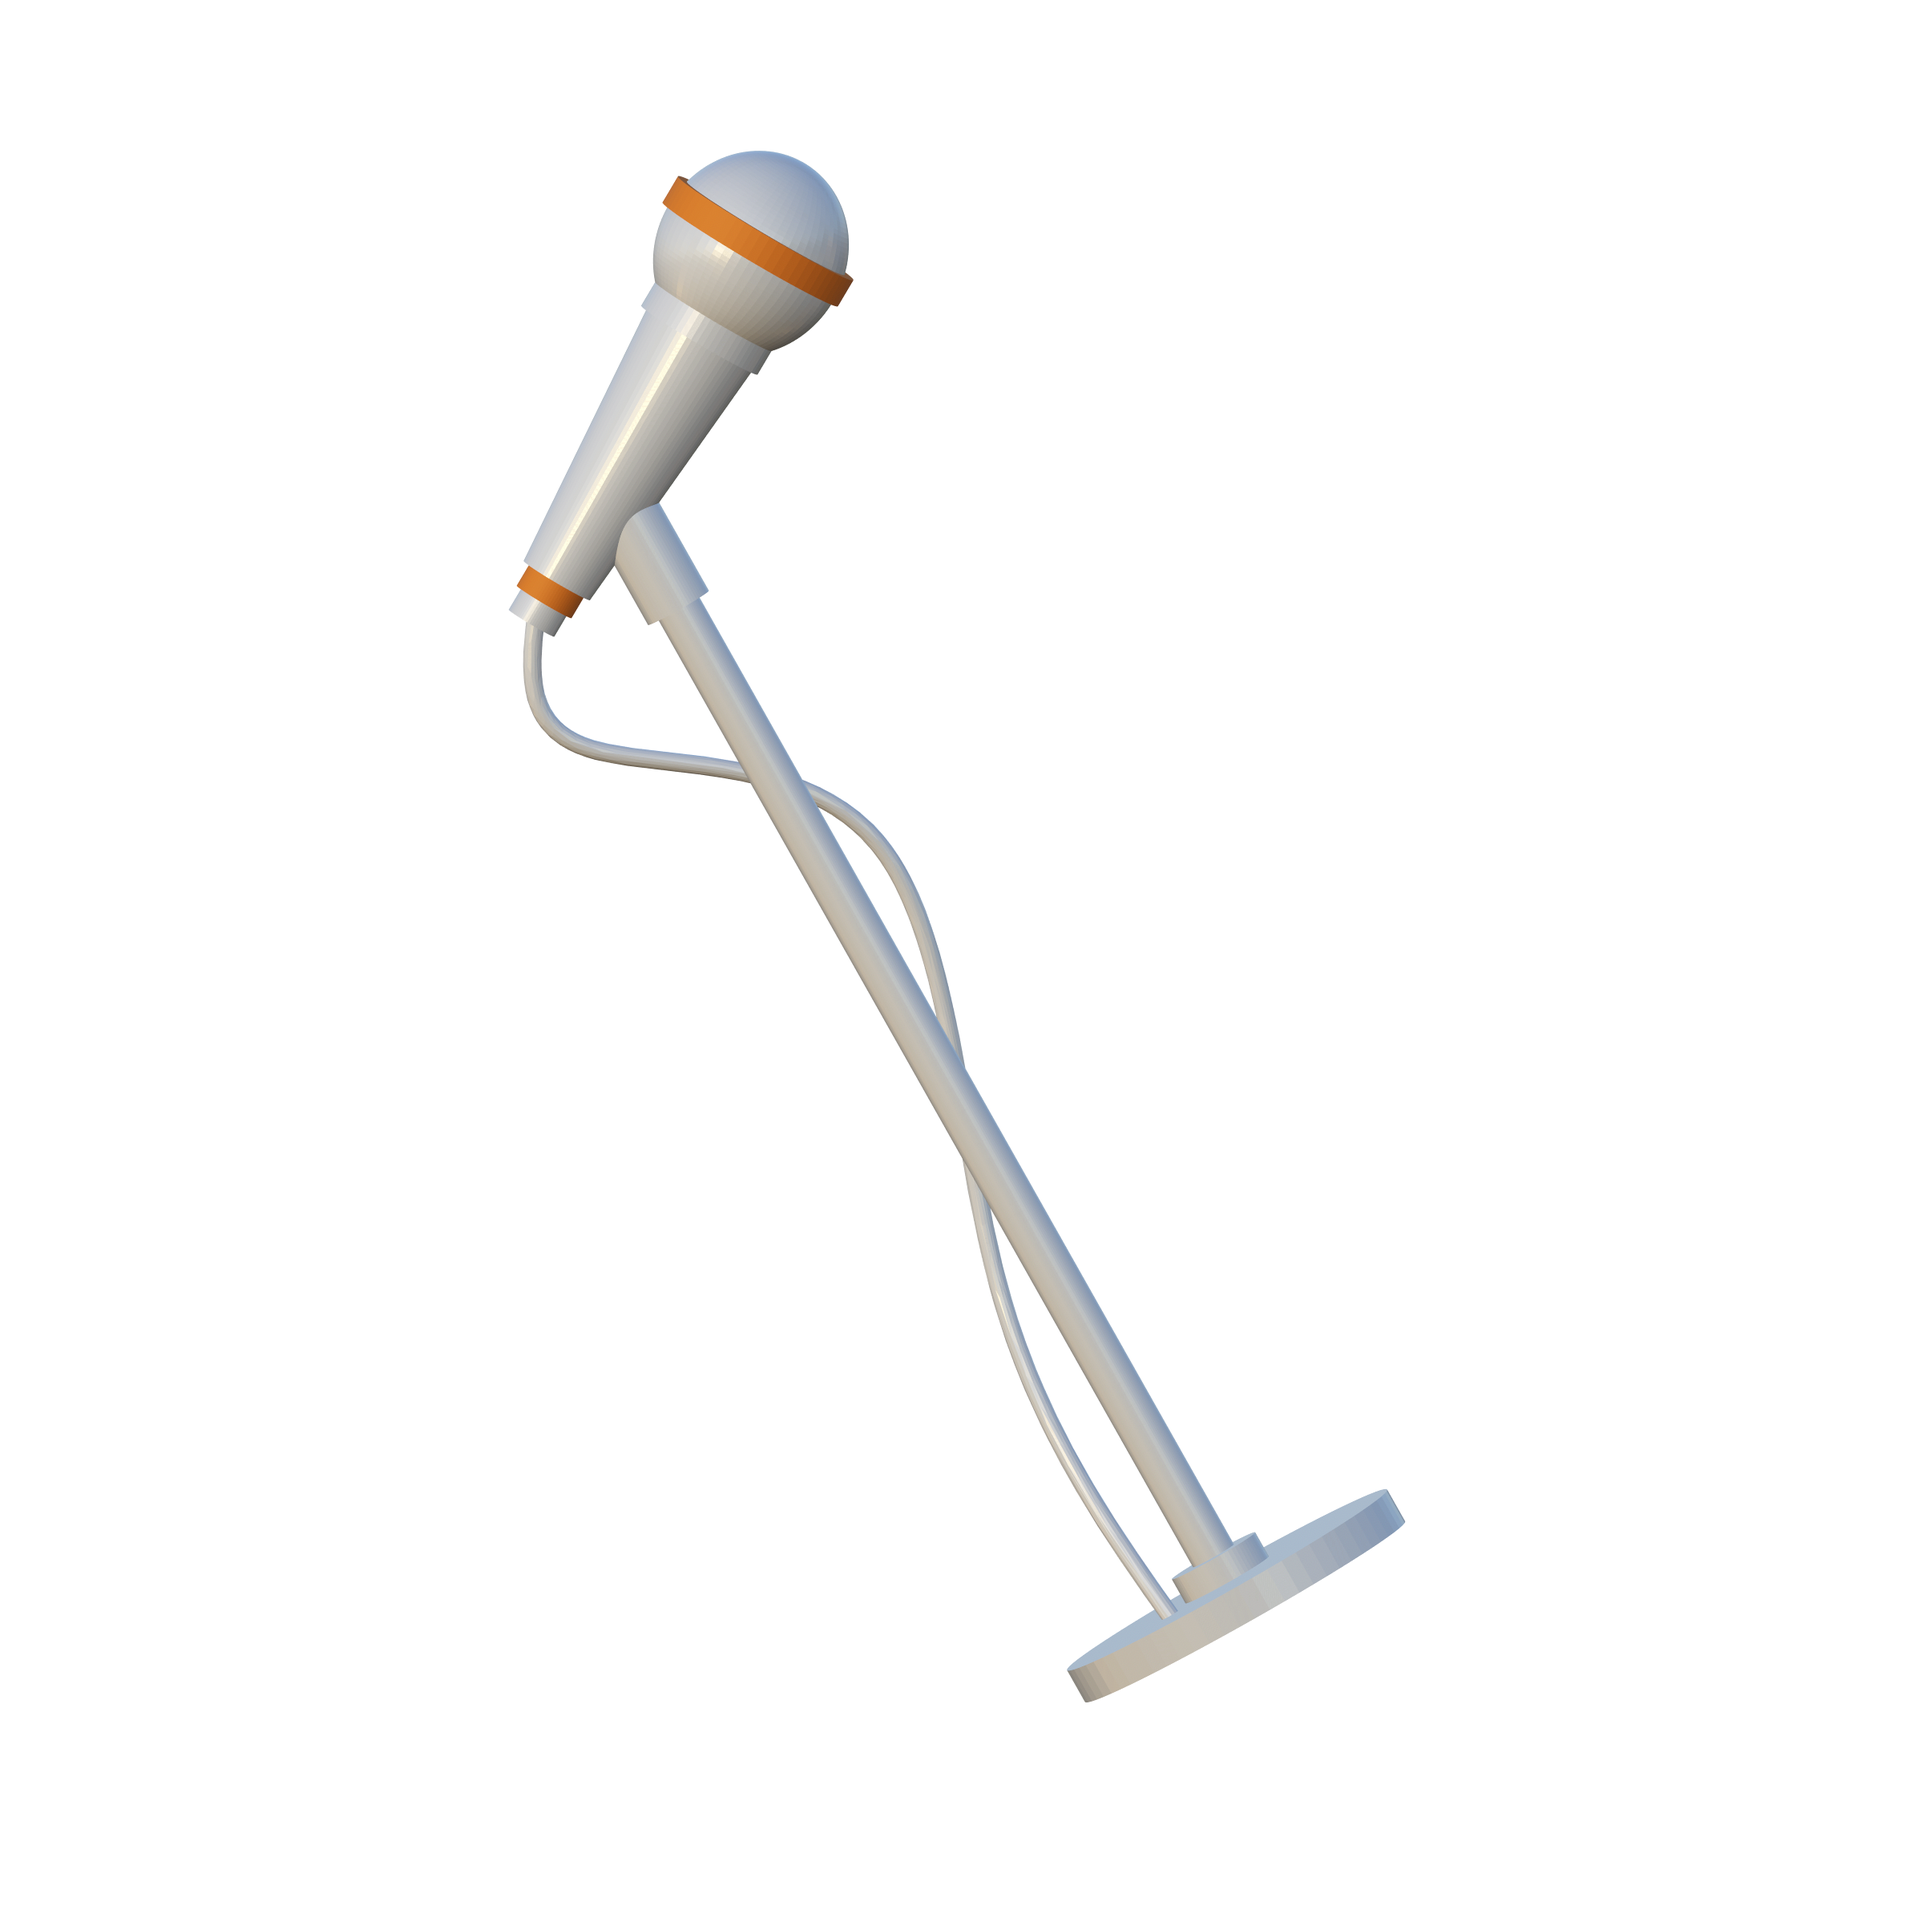
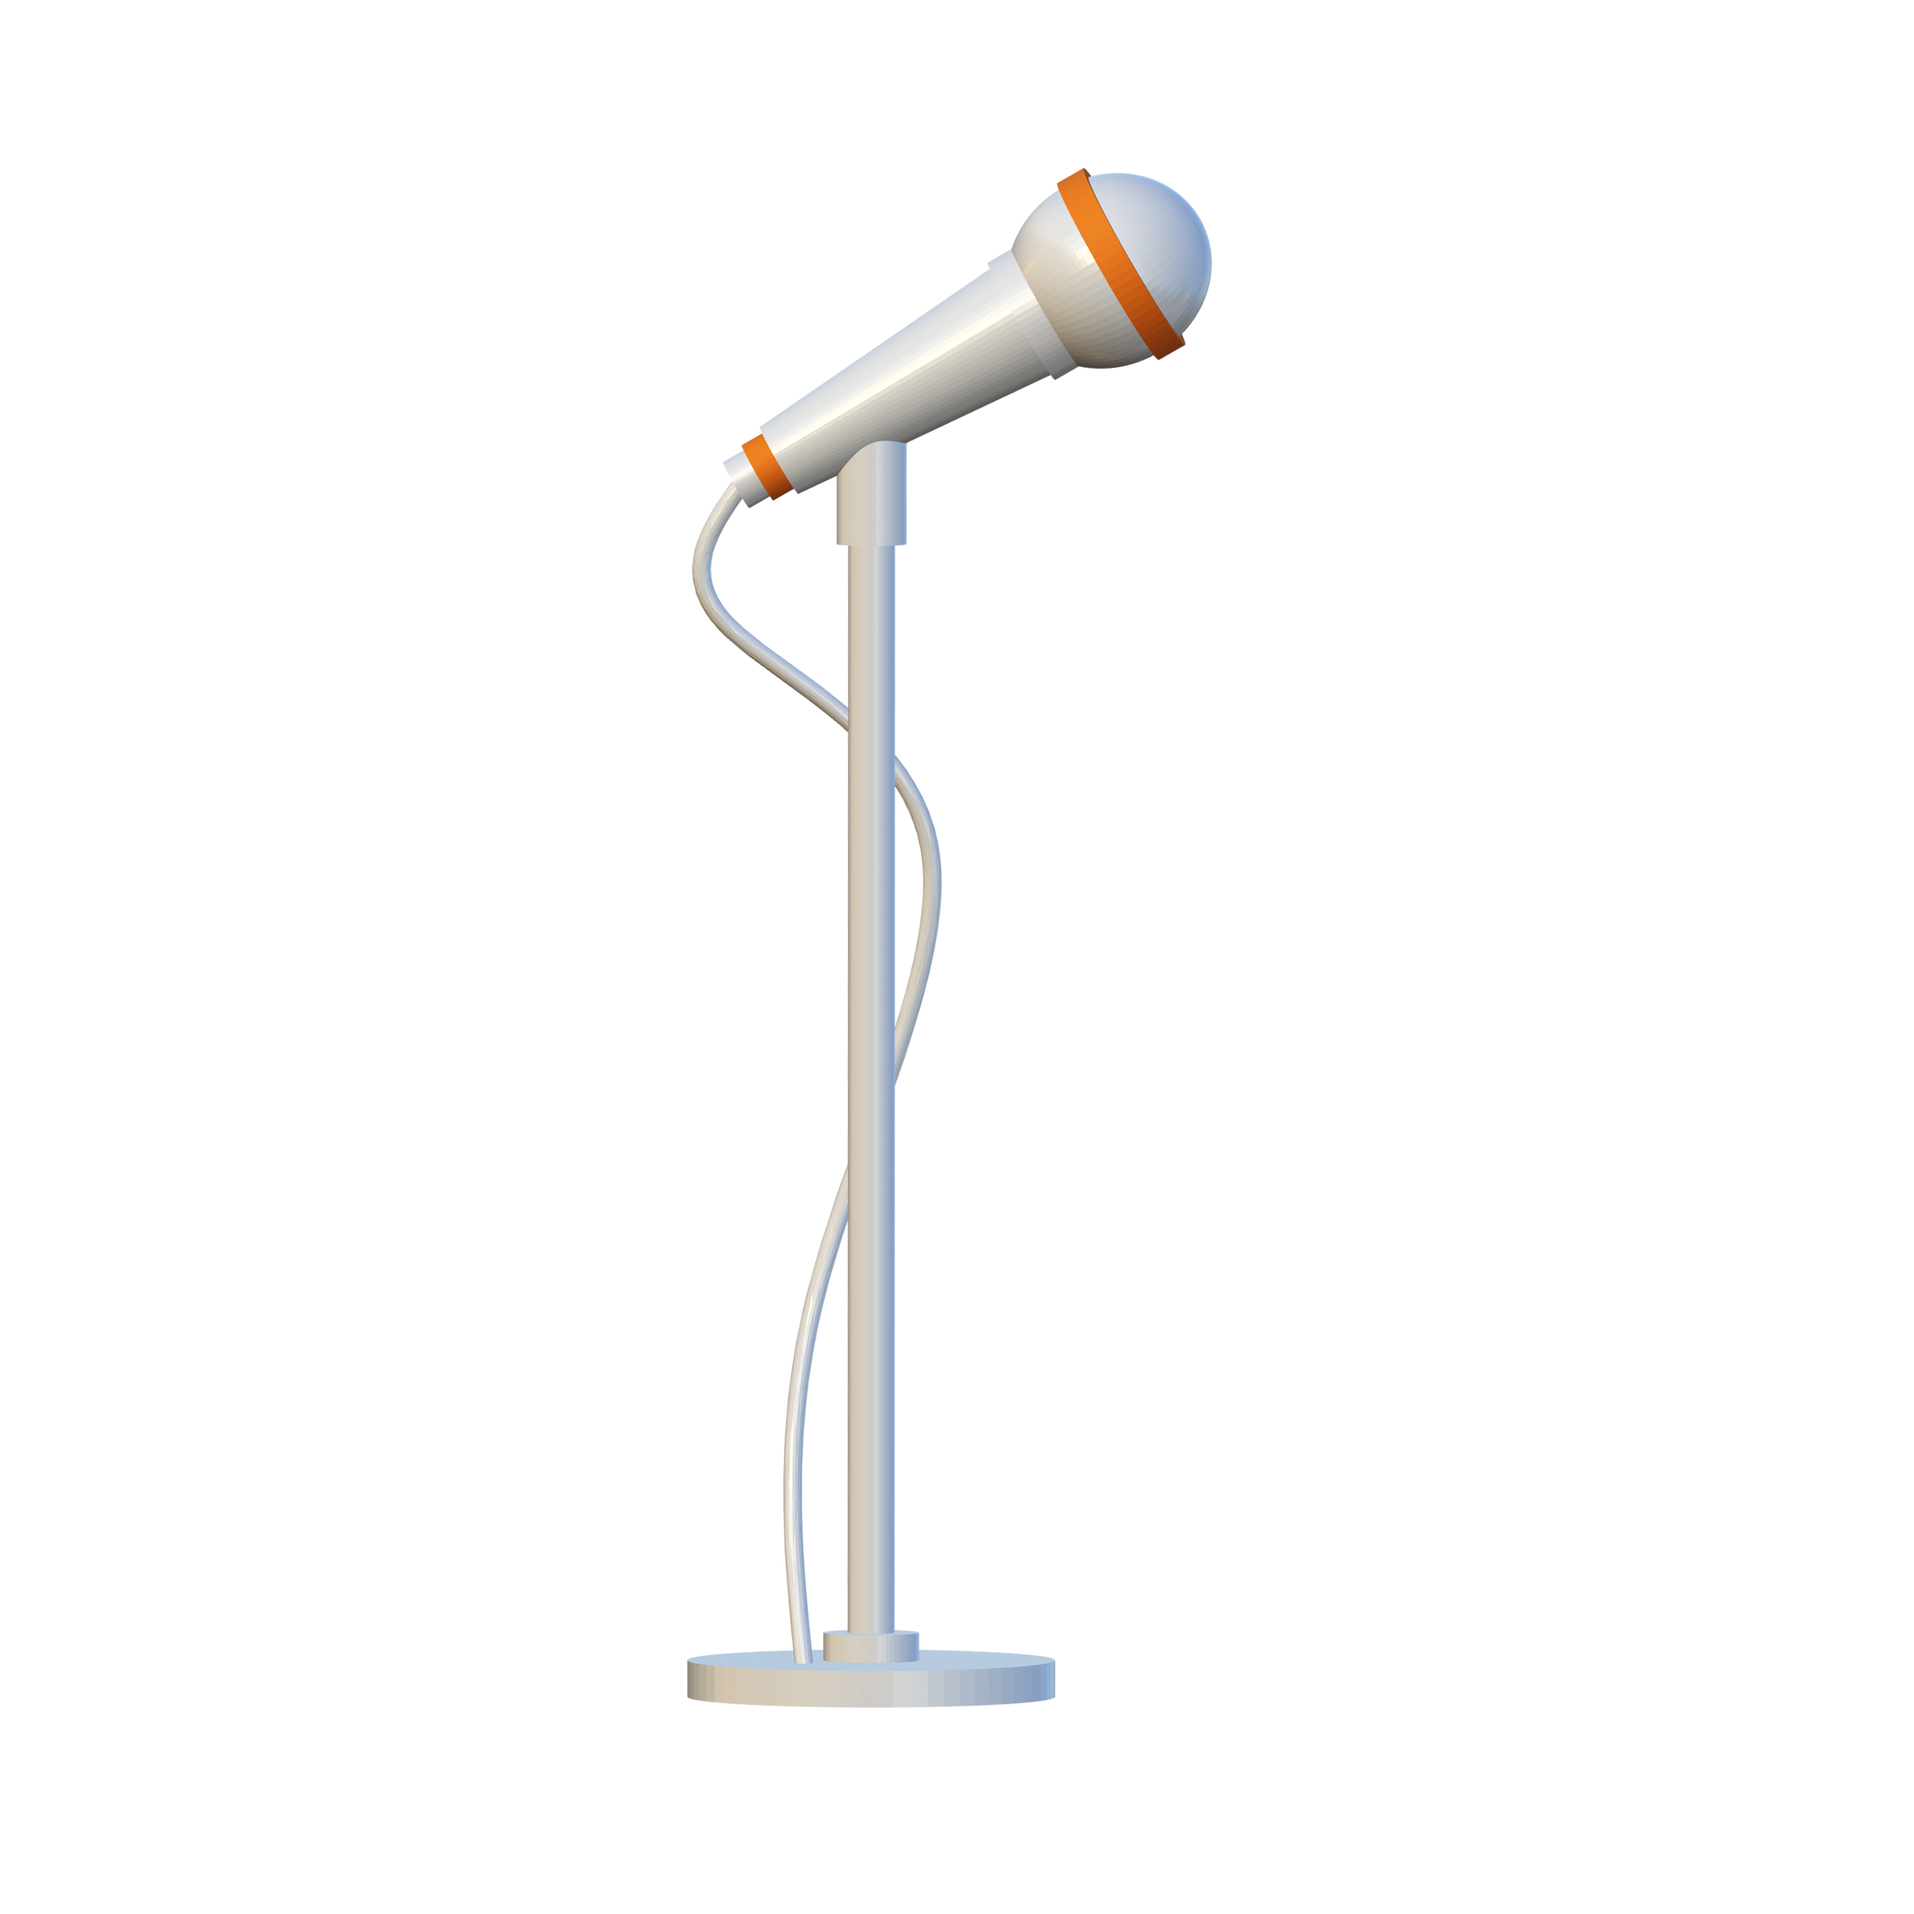
Disable auto-next on scroll and add horizontal swipe in motion popup

Changed region(s): [[0.2479, 0.062, 0.7437, 0.8987]]

diff --git a/interactive-portfolio/src/components/bookshelf/CharacterViewerModal.tsx b/interactive-portfolio/src/components/bookshelf/CharacterViewerModal.tsx
@@ -2,7 +2,7 @@
 
 import React, { Component, ErrorInfo, ReactNode, Suspense, useEffect, useMemo, useRef, useState } from 'react';
 import { Canvas, useFrame } from '@react-three/fiber';
-import { Grid, OrbitControls, useGLTF } from '@react-three/drei';
+import { Grid, OrbitControls, useGLTF, useProgress } from "@react-three/drei";
 import * as THREE from 'three';
 import type { OrbitControls as OrbitControlsImpl } from 'three-stdlib';
 import type { BookCategory } from '@/types/portfolio';
@@ -193,6 +193,7 @@ function LoadedCharacterModel({ url, autoRotate }: { url: string; autoRotate: bo
 }
 
 export default function CharacterViewerModal({ book, onClose }: CharacterViewerModalProps) {
+  const { active: __isModelLoading, progress: __loadProgress } = useProgress();
   const [slots, setSlots] = useState<CharacterSlot[]>([DEFAULT_SLOT]);
   const [selectedIdx, setSelectedIdx] = useState(0);
   const [autoRotate, setAutoRotate] = useState(true);
@@ -385,7 +386,15 @@ export default function CharacterViewerModal({ book, onClose }: CharacterViewerM
           </div>
 
           <div className="h-full w-full cursor-grab active:cursor-grabbing">
-            <Canvas
+            {__isModelLoading && (
+        <div data-model-loader="true" className="absolute inset-0 z-20 flex flex-col items-center justify-center gap-3 pointer-events-none">
+          <div className="w-8 h-8 border-2 border-orange-500/30 border-t-orange-500 rounded-full animate-spin" />
+          <span className="text-xs tracking-widest uppercase text-neutral-400">
+            LOADING 3D MODEL... {Math.round(__loadProgress)}%
+          </span>
+        </div>
+      )}
+      <Canvas
               dpr={[1, 2]}
               camera={{ position: [0, 0.25, 4.4], fov: 38 }}
               gl={{ antialias: true }}
@@ -438,8 +447,8 @@ export default function CharacterViewerModal({ book, onClose }: CharacterViewerM
           </div>
 
           <div className="pointer-events-none flex items-center justify-between bg-transparent px-4 py-2 text-[11px] text-neutral-400">
-            <span>좌클릭 드래그: 회전 · 휠: 줌인/줌아웃 · 우클릭 드래그: 이동</span>
-            <span className="font-mono text-neutral-500">3D VIEWER</span>
+            <span></span>
+            
           </div>
         </div>
       </div>

diff --git a/interactive-portfolio/src/components/bookshelf/BookshelfScene.tsx b/interactive-portfolio/src/components/bookshelf/BookshelfScene.tsx
@@ -2,13 +2,14 @@
 
 import React, { useEffect, useState } from 'react';
 import { Canvas } from '@react-three/fiber';
-import { Environment, Lightformer } from '@react-three/drei';
+import { Environment, Lightformer, useProgress } from "@react-three/drei";
 import { BOOKS_DATA } from '@/data/portfolioData';
 import { usePortfolioStore } from '@/store/usePortfolioStore';
 import BookMesh3D from './BookMesh3D';
 import PortfolioBookModal from './PortfolioBookModal';
 
 export default function BookshelfScene() {
+  const { active: __isModelLoading, progress: __loadProgress } = useProgress();
   const selectedBookId = usePortfolioStore((state) => state.selectedBookId);
   const closeBook = usePortfolioStore((state) => state.closeBook);
   const setHoveredBookIndex = usePortfolioStore((state) => state.setHoveredBookIndex);
@@ -45,7 +46,15 @@ export default function BookshelfScene() {
       </header>
 
       <div className="w-full h-full">
-        <Canvas
+        {__isModelLoading && (
+        <div data-model-loader="true" className="absolute inset-0 z-20 flex flex-col items-center justify-center gap-3 pointer-events-none">
+          <div className="w-8 h-8 border-2 border-orange-500/30 border-t-orange-500 rounded-full animate-spin" />
+          <span className="text-xs tracking-widest uppercase text-neutral-400">
+            LOADING 3D MODEL... {Math.round(__loadProgress)}%
+          </span>
+        </div>
+      )}
+      <Canvas
           shadows
           camera={{ position: [0, 0, isMobile ? 12.2 : 9.6], fov: 45 }}
           onPointerMissed={() => setHoveredBookIndex(null)}

diff --git a/interactive-portfolio/src/components/bookshelf/MotionReelModal.tsx b/interactive-portfolio/src/components/bookshelf/MotionReelModal.tsx
@@ -82,7 +82,7 @@ function GroupEntryBlock({
   const [imageError, setImageError] = useState(false);
 
   return (
-    <div className="w-full bg-black">
+    <div data-swipe-bound="true" onTouchStart={__handleTouchStart} onTouchEnd={(e) => __handleTouchEnd(e, typeof handleNext === "function" ? handleNext : undefined, typeof handlePrev === "function" ? handlePrev : undefined)} className="w-full bg-black">
       <div className="relative aspect-video w-full overflow-hidden rounded-none bg-black">
         {!videoError ? (
           <video
@@ -132,6 +132,22 @@ function GroupEntryBlock({
 }
 
 export default function MotionReelModal({ onClose }: MotionReelModalProps) {
+
+const __swipeRef = { current: { x: 0, y: 0 } };
+function __handleTouchStart(e) {
+  if (!e.touches || e.touches.length !== 1) return;
+  __swipeRef.current = { x: e.touches[0].clientX, y: e.touches[0].clientY };
+}
+function __handleTouchEnd(e, onLeft, onRight) {
+  if (!e.changedTouches || e.changedTouches.length !== 1) return;
+  const dx = e.changedTouches[0].clientX - __swipeRef.current.x;
+  const dy = e.changedTouches[0].clientY - __swipeRef.current.y;
+  if (Math.abs(dx) > 50 && Math.abs(dx) > Math.abs(dy) * 1.3) {
+    if (dx < 0 && typeof onLeft === "function") onLeft();
+    if (dx > 0 && typeof onRight === "function") onRight();
+  }
+}
+
   const [groups, setGroups] = useState<ReelGroupPage[]>(FALLBACK_GROUPS);
   const [activeIndex, setActiveIndex] = useState(0);
   const touchStartX = useRef<number | null>(null);
